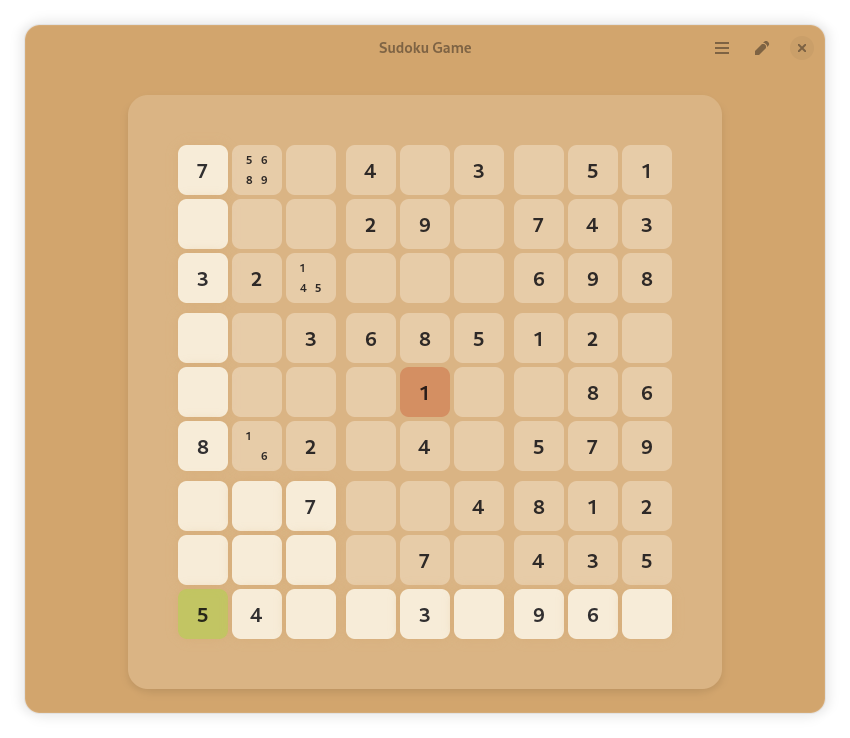
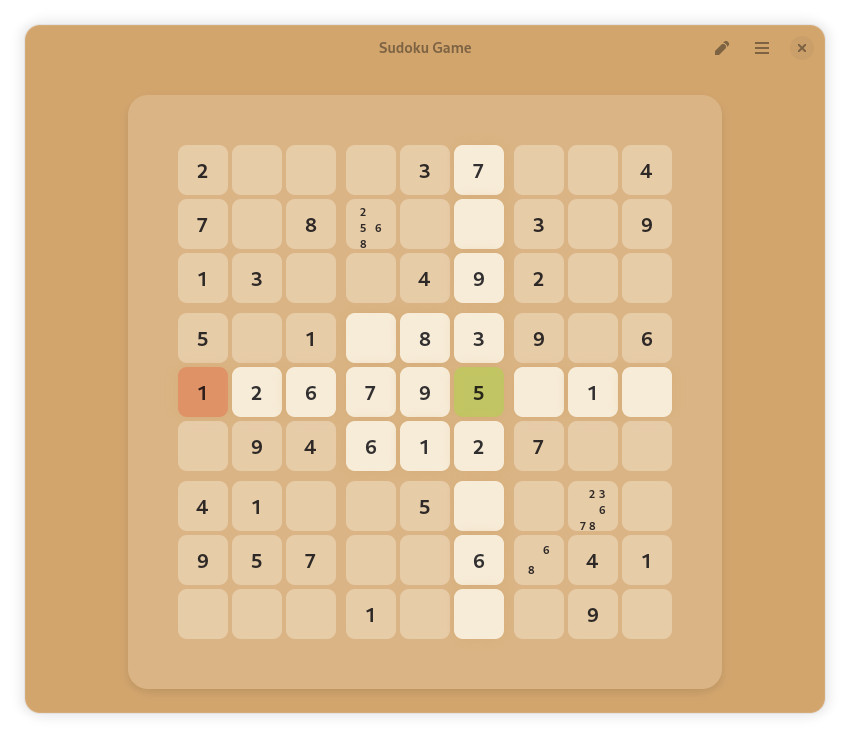
Version v1.1.1 (#96)
* Enhancement: Update shortcuts and primary menu location.

* Bump version

* Bugfix: Fix logging issue

* Update metainfo

* Update metainfo

* Update screenshots.

diff --git a/src/main.py b/src/main.py
@@ -44,16 +44,17 @@ class SudokuApplication(Adw.Application):
             application_id="io.github.sepehr_rs.Sudoku",
             flags=Gio.ApplicationFlags.FLAGS_NONE,
         )
-        self.create_action("quit", self.quit, ["<primary>q"])
+        self.create_action("quit", self.quit, ["<primary>q", "<primary>w"])
         self.create_action("about", self.on_about_action)
-        self.create_action("how_to_play", self.on_how_to_play)
+        self.create_action("how_to_play", self.on_how_to_play, ["F1"])
         # self.create_action('preferences', self.on_preferences_action)
         quit_action = Gio.SimpleAction.new("quit", None)
         quit_action.connect("activate", lambda *args: self.quit())
         self.add_action(quit_action)
         self.set_accels_for_action("win.pencil-toggled", ["<Ctrl>p"])
         self.set_accels_for_action("win.back-to-menu", ["<Ctrl>m"])
-        self.set_accels_for_action("app.how_to_play", ["F1"])
+        self.set_accels_for_action("win.show-primary-menu", ["F10"])
+        # self.set_accels_for_action("app.how_to_play", ["F1"])
 
     def do_activate(self):
         """Called when the application is activated.
@@ -73,7 +74,7 @@ class SudokuApplication(Adw.Application):
             application_name="Sudoku",
             application_icon="io.github.sepehr_rs.Sudoku",
             developer_name="Sepehr",
-            version="1.1.0",
+            version="1.1.1",
             developers=["Sepehr", "Revisto"],
             copyright="© 2025 sepehr",
         )

diff --git a/src/window.py b/src/window.py
@@ -17,7 +17,7 @@
 #
 # SPDX-License-Identifier: GPL-3.0-or-later
 
-from gi.repository import Adw, Gtk
+from gi.repository import Adw, Gtk, Gio
 from functools import partial
 from gettext import gettext as _
 
@@ -46,6 +46,7 @@ class SudokuWindow(Adw.ApplicationWindow):
     game_view_box = Gtk.Template.Child()
     grid_container = Gtk.Template.Child()
     pencil_toggle_button = Gtk.Template.Child()
+    primary_menu_button = Gtk.Template.Child()
 
     def __init__(self, **kwargs):
         super().__init__(**kwargs)
@@ -61,6 +62,13 @@ class SudokuWindow(Adw.ApplicationWindow):
         gesture = Gtk.GestureClick.new()
         gesture.connect("pressed", self.on_window_clicked)
         self.add_controller(gesture)
+        action = Gio.SimpleAction.new("show-primary-menu", None)
+        action.connect("activate", self.on_show_primary_menu)
+        self.add_action(action)
+
+    def on_show_primary_menu(self, action, param):
+        """Open the hamburger menu popover."""
+        self.primary_menu_button.popup()
 
     def _get_grid_widget(self):
         frame = self.grid_container.get_first_child()

diff --git a/src/game_manager.py b/src/game_manager.py
@@ -280,7 +280,10 @@ class GameManager:
 
     def on_pencil_toggled(self, button: Gtk.ToggleButton):
         self.pencil_mode = button.get_active()
-        logging.info("Pencil Mode is now", "ON" if self.pencil_mode else "OFF")
+        logging.info(
+            "Pencil Mode is now ON" if self.pencil_mode
+            else "Pencil mode is now OFF"
+        )
 
     def on_pencil_action_toggled(self, action, value):
         new_state = not action.get_state().get_boolean()
